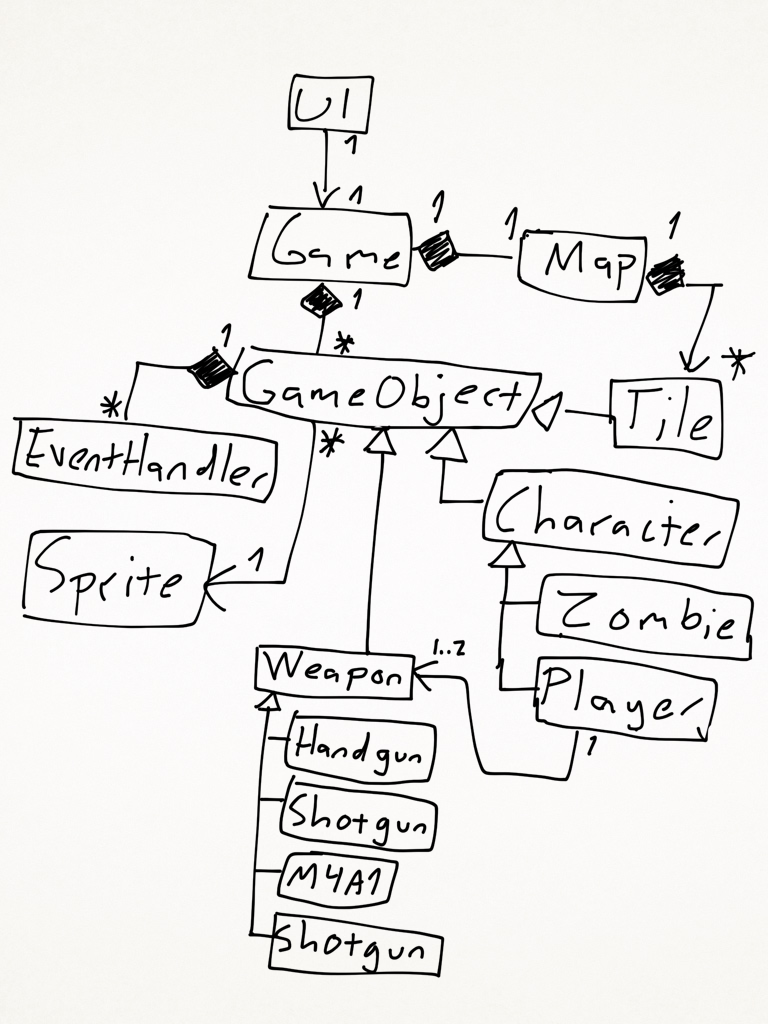
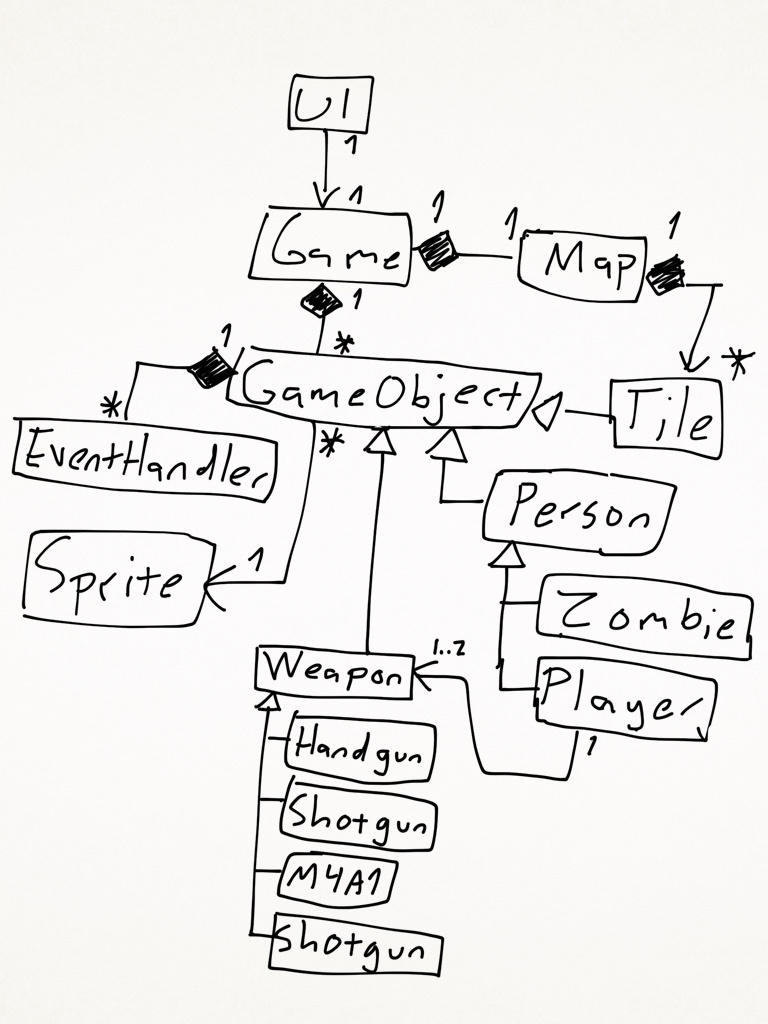
testejä+muuta

Changed region(s): [[0.625, 0.4688, 0.9688, 0.5625], [0.8125, 0.4375, 0.8438, 0.4688]]

diff --git a/Zombie/src/test/java/PersonTest.java b/Zombie/src/test/java/PersonTest.java
@@ -1,0 +1,115 @@
+
+import org.junit.After;
+import org.junit.AfterClass;
+import org.junit.Before;
+import org.junit.BeforeClass;
+import org.junit.Test;
+import static org.junit.Assert.*;
+import zombie.domain.Person;
+
+
+public class PersonTest {
+    
+    Person person;
+    
+    public PersonTest() {
+    }
+    
+    @BeforeClass
+    public static void setUpClass() {
+    }
+    
+    @AfterClass
+    public static void tearDownClass() {
+    }
+    
+    @Before
+    public void setUp() {
+        person = new Person();
+        person.setMaxHp(50);
+    }
+    
+    @After
+    public void tearDown() {
+    }
+    
+    @Test
+    public void getHpReturnsCorrectValue() {
+        assertEquals(0, person.getHp());
+        person.setHp(10);
+        assertEquals(10, person.getHp());
+        person.setHp(15);
+        assertEquals(15, person.getHp());
+    }
+    
+    @Test
+    public void maxHpSetsAndGetsCorrectValue() {
+        person.setMaxHp(100);
+        assertEquals(100, person.getMaxHp());
+        person.setMaxHp(50);
+        assertEquals(50, person.getMaxHp());
+    }
+    
+    @Test
+    public void hpSetsAndGetsRightValue() {
+        person.setMaxHp(100);
+        person.setHp(50);
+        assertEquals(50, person.getHp());
+        person.setHp(100);
+        assertEquals(100, person.getHp());
+    }
+    
+    @Test
+    public void cantSetNegativeMaxHp() {
+        person.setMaxHp(100);
+        person.setMaxHp(-1);
+        assertEquals(100, person.getMaxHp());
+    }
+    
+    @Test
+    public void cantSetNegativeHp() {
+        person.setHp(-1);
+        assertEquals(0, person.getHp());
+    }
+    
+    @Test
+    public void cantSetHpOverMaxHp() {
+        person.setHp(30);
+        person.setHp(51);
+        assertEquals(30, person.getHp());
+        person.setHp(40);
+        assertEquals(40, person.getHp());
+    }
+    
+    @Test
+    public void decreaseHpWorksCorrectly() {
+        person.setHp(30);
+        person.decreaseHp(10);
+        assertEquals(20, person.getHp());
+        person.decreaseHp(8);
+        assertEquals(12, person.getHp());
+    }
+    
+    @Test
+    public void increaseHpWorksCorrectly() {
+        person.setHp(10);
+        person.increaseHp(10);
+        assertEquals(20, person.getHp());
+        person.increaseHp(8);
+        assertEquals(28, person.getHp());
+    }
+    
+    @Test
+    public void increaseHpWontIncreaseOverMaxHp() {
+        person.setHp(45);
+        person.increaseHp(10);
+        assertEquals(50, person.getHp());
+    }
+    @Test
+    public void decreaseHpWontDecreaseUnderZero() {
+        person.setHp(10);
+        person.decreaseHp(15);
+        assertEquals(0, person.getHp());
+    }
+
+}

diff --git a/Zombie/src/main/java/zombie/domain/Person.java b/Zombie/src/main/java/zombie/domain/Person.java
@@ -1,0 +1,50 @@
+
+package zombie.domain;
+
+public class Person extends GameObject {
+    
+    protected int hp;
+    protected int maxHp;
+    
+    public Person() {
+        
+    }
+
+    public int getHp() {
+        return hp;
+    }
+
+    public void setHp(int hp) {
+        if (hp > maxHp || hp < 0) {
+            return;
+        }
+        this.hp = hp;
+    }
+
+    public int getMaxHp() {
+        return maxHp;
+    }
+
+    public void setMaxHp(int maxHp) {
+        if (maxHp < 0) {
+            return;
+        }
+        this.maxHp = maxHp;
+    }
+    
+    public void decreaseHp(int amount) {
+        hp -= amount;
+        if (hp <= 0) {
+            hp = 0;
+        }
+    }
+    
+    public void increaseHp(int amount) {
+        hp += amount;
+        if (hp > maxHp) {
+            hp = maxHp;
+        }
+    }
+
+    
+}

diff --git a/Zombie/src/main/java/zombie/domain/GameObject.java b/Zombie/src/main/java/zombie/domain/GameObject.java
@@ -1,5 +1,5 @@
 
-package jiihu.zombie.domain;
+package zombie.domain;
 
 
 
@@ -7,7 +7,7 @@ public abstract class GameObject {
     
     protected int x;
     protected int y;
-    protected String spriteFile;
+    protected SpriteImage sprite;
     
     public GameObject() {
         
@@ -29,13 +29,14 @@ public abstract class GameObject {
         this.y = y;
     }
 
-    public String getSpriteFile() {
-        return spriteFile;
+    public SpriteImage getSprite() {
+        return sprite;
     }
 
-    public void setSpriteFile(String spriteFile) {
-        this.spriteFile = spriteFile;
+    public void setSprite(SpriteImage sprite) {
+        this.sprite = sprite;
     }
+
     
     
 }

diff --git a/Zombie/src/main/java/zombie/domain/Player.java b/Zombie/src/main/java/zombie/domain/Player.java
@@ -1,0 +1,37 @@
+
+package zombie.domain;
+
+import com.badlogic.gdx.Gdx;
+import com.badlogic.gdx.graphics.Texture;
+import com.badlogic.gdx.graphics.g2d.SpriteBatch;
+
+
+public class Player extends Person {
+    
+    private Weapon weapon1;
+    private Weapon weapon2;
+    
+    public Player() {
+        
+    }
+
+    public Weapon getWeapon1() {
+        return weapon1;
+    }
+
+    public void setWeapon1(Weapon weapon1) {
+        this.weapon1 = weapon1;
+    }
+
+    public Weapon getWeapon2() {
+        return weapon2;
+    }
+
+    public void setWeapon2(Weapon weapon2) {
+        this.weapon2 = weapon2;
+    }
+    
+    
+    
+    
+}

diff --git a/Zombie/src/main/java/zombie/domain/SpriteImage.java b/Zombie/src/main/java/zombie/domain/SpriteImage.java
@@ -1,0 +1,24 @@
+
+
+package zombie.domain;
+
+
+public class SpriteImage {
+    
+    private String filename;
+    
+    public SpriteImage(String filename) {
+        this.filename = filename;
+    }
+
+    public String getFilename() {
+        return filename;
+    }
+
+    public void setFilename(String filename) {
+        this.filename = filename;
+    }
+    
+    
+    
+}

diff --git a/Zombie/src/main/java/zombie/Game.java b/Zombie/src/main/java/zombie/Game.java
@@ -1,7 +1,7 @@
 
-package jiihu.zombie;
+package zombie;
 
-import jiihu.zombie.ui.UserInterface;
+import zombie.ui.UserInterface;
 import com.badlogic.gdx.backends.lwjgl.LwjglApplication;
 import com.badlogic.gdx.backends.lwjgl.LwjglApplicationConfiguration;
 

diff --git a/Zombie/src/main/java/zombie/Main.java b/Zombie/src/main/java/zombie/Main.java
@@ -1,4 +1,4 @@
-package jiihu.zombie;
+package zombie;
 
 import com.badlogic.gdx.backends.lwjgl.LwjglApplication;
 import com.badlogic.gdx.backends.lwjgl.LwjglApplicationConfiguration;

diff --git a/Zombie/src/main/java/zombie/ui/UserInterface.java b/Zombie/src/main/java/zombie/ui/UserInterface.java
@@ -1,4 +1,4 @@
-package jiihu.zombie.ui;
+package zombie.ui;
 
 import com.badlogic.gdx.graphics.GL30;
 import com.badlogic.gdx.graphics.Texture;

diff --git a/Zombie/src/main/java/zombie/domain/Weapon.java b/Zombie/src/main/java/zombie/domain/Weapon.java
@@ -1,5 +1,5 @@
 
-package jiihu.zombie.domain;
+package zombie.domain;
 
 
 public class Weapon extends GameObject {
